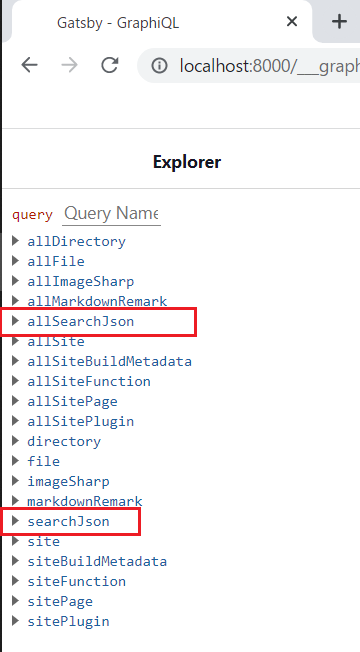
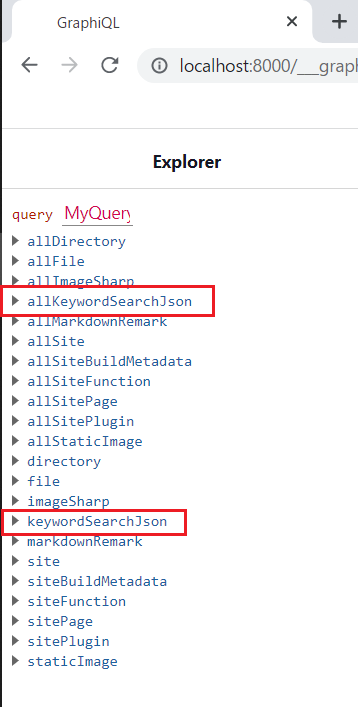
📝 Update Article

diff --git a/src/__generated__/gatsby-types.ts b/src/__generated__/gatsby-types.ts
@@ -4393,22 +4393,20 @@ type StaticImageSortInput = {
 type Unnamed_1_QueryVariables = Exact<{ [key: string]: never; }>;
 
 
-type Unnamed_1_Query = { readonly site: Maybe<{ readonly siteMetadata: Maybe<Pick<SiteSiteMetadata, 'title'>> }> };
+type Unnamed_1_Query = { readonly site: Maybe<{ readonly siteMetadata: Maybe<Pick<SiteSiteMetadata, 'title' | 'siteUrl'>> }> };
 
 type Unnamed_2_QueryVariables = Exact<{ [key: string]: never; }>;
 
 
 type Unnamed_2_Query = { readonly site: Maybe<{ readonly siteMetadata: Maybe<Pick<SiteSiteMetadata, 'title' | 'lang' | 'description' | 'siteUrl' | 'locale'>> }> };
 
-type SeriesPagesQueryVariables = Exact<{
-  series: Maybe<Scalars['String']>;
+type PagesQueryVariables = Exact<{
+  limit: Scalars['Int'];
+  skip: Scalars['Int'];
 }>;
 
 
-type SeriesPagesQuery = { readonly allMarkdownRemark: { readonly group: ReadonlyArray<(
-      Pick<MarkdownRemarkGroupConnection, 'fieldValue' | 'totalCount'>
-      & { readonly nodes: ReadonlyArray<{ readonly frontmatter: Maybe<Pick<Frontmatter, 'seriesSlug' | 'seriesName'>> }> }
-    )> } };
+type PagesQuery = { readonly siteData: Maybe<{ readonly siteMetadata: Maybe<Pick<SiteSiteMetadata, 'title' | 'description'>> }>, readonly postData: { readonly nodes: ReadonlyArray<{ readonly fields: Maybe<Pick<Fields, 'slug'>>, readonly frontmatter: Maybe<Pick<Frontmatter, 'postdate' | 'update' | 'seriesName' | 'seriesSlug' | 'title' | 'tags' | 'description'>> }> } };
 
 type Unnamed_3_QueryVariables = Exact<{ [key: string]: never; }>;
 
@@ -4418,7 +4416,7 @@ type Unnamed_3_Query = { readonly allKeywordSearchJson: { readonly edges: Readon
 type Unnamed_4_QueryVariables = Exact<{ [key: string]: never; }>;
 
 
-type Unnamed_4_Query = { readonly site: Maybe<{ readonly siteMetadata: Maybe<Pick<SiteSiteMetadata, 'title' | 'siteUrl'>> }> };
+type Unnamed_4_Query = { readonly site: Maybe<{ readonly siteMetadata: Maybe<Pick<SiteSiteMetadata, 'title'>> }> };
 
 type TagsPageQueryVariables = Exact<{
   tag: Maybe<Scalars['String']>;
@@ -4439,14 +4437,15 @@ type SeriesQueryVariables = Exact<{
 
 type SeriesQuery = { readonly allMarkdownRemark: { readonly nodes: ReadonlyArray<{ readonly fields: Maybe<Pick<Fields, 'slug'>>, readonly frontmatter: Maybe<Pick<Frontmatter, 'postdate' | 'update' | 'seriesName' | 'seriesSlug' | 'title' | 'tags' | 'description'>> }> } };
 
-type TagQueryVariables = Exact<{
-  tag: Scalars['String'];
-  limit: Scalars['Int'];
-  skip: Scalars['Int'];
+type SeriesPagesQueryVariables = Exact<{
+  series: Maybe<Scalars['String']>;
 }>;
 
 
-type TagQuery = { readonly allMarkdownRemark: { readonly nodes: ReadonlyArray<{ readonly fields: Maybe<Pick<Fields, 'slug'>>, readonly frontmatter: Maybe<Pick<Frontmatter, 'postdate' | 'update' | 'seriesName' | 'seriesSlug' | 'title' | 'tags' | 'description'>> }> } };
+type SeriesPagesQuery = { readonly allMarkdownRemark: { readonly group: ReadonlyArray<(
+      Pick<MarkdownRemarkGroupConnection, 'fieldValue' | 'totalCount'>
+      & { readonly nodes: ReadonlyArray<{ readonly frontmatter: Maybe<Pick<Frontmatter, 'seriesSlug' | 'seriesName'>> }> }
+    )> } };
 
 type BlogPostBySlugQueryVariables = Exact<{
   id: Scalars['String'];
@@ -4460,18 +4459,14 @@ type BlogPostBySlugQuery = { readonly site: Maybe<{ readonly siteMetadata: Maybe
     & { readonly frontmatter: Maybe<Pick<Frontmatter, 'title' | 'postdate' | 'update' | 'description' | 'seriesSlug' | 'seriesName' | 'tags'>> }
   )>, readonly previous: Maybe<{ readonly fields: Maybe<Pick<Fields, 'slug'>>, readonly frontmatter: Maybe<Pick<Frontmatter, 'title'>> }>, readonly next: Maybe<{ readonly fields: Maybe<Pick<Fields, 'slug'>>, readonly frontmatter: Maybe<Pick<Frontmatter, 'title'>> }> };
 
-type PagesQueryVariables = Exact<{
+type TagQueryVariables = Exact<{
+  tag: Scalars['String'];
   limit: Scalars['Int'];
   skip: Scalars['Int'];
 }>;
 
 
-type PagesQuery = { readonly siteData: Maybe<{ readonly siteMetadata: Maybe<Pick<SiteSiteMetadata, 'title' | 'description'>> }>, readonly postData: { readonly nodes: ReadonlyArray<{ readonly fields: Maybe<Pick<Fields, 'slug'>>, readonly frontmatter: Maybe<Pick<Frontmatter, 'postdate' | 'update' | 'seriesName' | 'seriesSlug' | 'title' | 'tags' | 'description'>> }> } };
-
-type PagesQueryQueryVariables = Exact<{ [key: string]: never; }>;
-
-
-type PagesQueryQuery = { readonly allSiteFunction: { readonly nodes: ReadonlyArray<Pick<SiteFunction, 'functionRoute'>> }, readonly allSitePage: { readonly nodes: ReadonlyArray<Pick<SitePage, 'path'>> } };
+type TagQuery = { readonly allMarkdownRemark: { readonly nodes: ReadonlyArray<{ readonly fields: Maybe<Pick<Fields, 'slug'>>, readonly frontmatter: Maybe<Pick<Frontmatter, 'postdate' | 'update' | 'seriesName' | 'seriesSlug' | 'title' | 'tags' | 'description'>> }> } };
 
 type GatsbyImageSharpFixedFragment = Pick<ImageSharpFixed, 'base64' | 'width' | 'height' | 'src' | 'srcSet'>;
 
@@ -4498,5 +4493,15 @@ type GatsbyImageSharpFluid_withWebp_tracedSVGFragment = Pick<ImageSharpFluid, 't
 type GatsbyImageSharpFluid_noBase64Fragment = Pick<ImageSharpFluid, 'aspectRatio' | 'src' | 'srcSet' | 'sizes'>;
 
 type GatsbyImageSharpFluid_withWebp_noBase64Fragment = Pick<ImageSharpFluid, 'aspectRatio' | 'src' | 'srcSet' | 'srcWebp' | 'srcSetWebp' | 'sizes'>;
+
+type PagesQueryQueryVariables = Exact<{ [key: string]: never; }>;
+
+
+type PagesQueryQuery = { readonly allSiteFunction: { readonly nodes: ReadonlyArray<Pick<SiteFunction, 'functionRoute'>> }, readonly allSitePage: { readonly nodes: ReadonlyArray<Pick<SitePage, 'path'>> } };
+
+type cGithubGatsbyBlogsrccomponentskeywordSearchJsx2003985847QueryVariables = Exact<{ [key: string]: never; }>;
+
+
+type cGithubGatsbyBlogsrccomponentskeywordSearchJsx2003985847Query = { readonly allKeywordSearchJson: { readonly edges: ReadonlyArray<{ readonly node: Pick<KeywordSearchJson, 'keywords' | 'slug' | 'title'> }> } };
 
 }

diff --git a/src/components/keywordSearch.jsx b/src/components/keywordSearch.jsx
@@ -1,0 +1,46 @@
+import React, {useState, useEffect} from "react"
+import { useStaticQuery, graphql } from "gatsby"
+
+export const KeywordSearch = () => {
+  // フォームに入力された文字列を保持するState
+  const [inputtedWords, setInputtedWords] = useState("")
+
+  // 条件によって絞り込まれた記事を保持するState
+  const [filteredPosts, setFilteredPosts] = useState(null)
+
+  // フォームに文字列が入力されるたびに実行される
+  useEffect(() => {
+    // 入力されたキーワードを小文字に変換する
+    const lowerCaseWords = inputtedWords
+      .trim()
+      .toLocaleLowerCase()
+      .match(/[^\s]+/g)
+    
+    console.log(lowerCaseWords)
+
+  }, [inputtedWords])
+
+  const { allKeywordSearchJson } = useStaticQuery(
+    graphql`
+      {
+        allKeywordSearchJson(skip: 3) {
+          edges {
+            node {
+              keywords
+              slug
+              title
+            }
+          }
+        }
+      }
+    `
+  )
+
+  return (
+    <input
+      type="text"
+      onChange={(e) => setInputtedWords(e.target.value)}
+    />
+  )
+}
+

diff --git a/src/components/layout.tsx b/src/components/layout.tsx
@@ -2,6 +2,7 @@ import React, { ReactNode } from "react"
 
 import Search from "./searchBox"
 import Footer from "./footer"
+import { KeywordSearch } from "./keywordSearch"
 
 type Props = {
   children: ReactNode
@@ -9,7 +10,7 @@ type Props = {
 
 const Layout: React.VFC<Props> = ({children}) => (
   <>
-    {/*<Temp />*/}
+    <KeywordSearch />
     <Search />
 
     {children}
